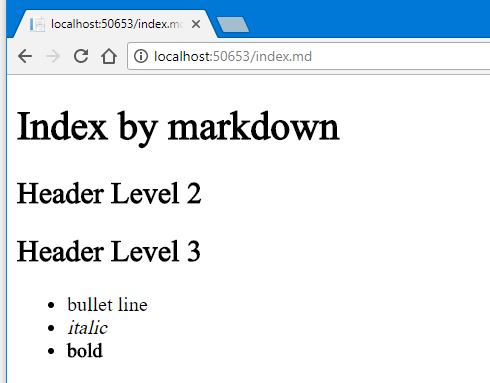
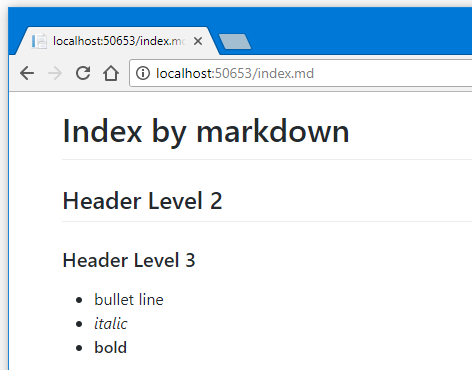
Update README - describe default css theme, and how to overwrite it.

Changed region(s): [[0.0, 0.0, 1.0, 1.0], [0.089, 0.773, 0.3559, 0.9514]]

diff --git a/README.md b/README.md
@@ -45,7 +45,7 @@ After that, all responses which contntent type is "text/markdown" - not only sta
 
 ### Inject custom CSS files
 
-You can inject CSS file when calling `UseMarkdownPages()` method with options.
+You can append custom CSS file when calling `UseMarkdownPages()` method with options.
 
 ```csharp
   app.UseMarkdownPages(new MarkdownPagesOptions {
@@ -55,8 +55,23 @@ You can inject CSS file when calling `UseMarkdownPages()` method with options.
       ...
     }
   });
-
 ```
+
+`CssLink` property of `MarkdownPagesOptions` object has an item that the URL of default theme style CSS file.
+
+If you want to overwrite all of CSS file links include default theme style, you can do it by creating new `List<string>` object and setting it to `CssLinks` property.
+
+```csharp
+  app.UseMarkdownPages(new MarkdownPagesOptions {
+    CssLinks = new List<string> {
+      "/path/to/css-file1.css",
+      "/path/to/css-file2.css",
+      ...
+    }
+  });
+```
+
+
 
 
 
